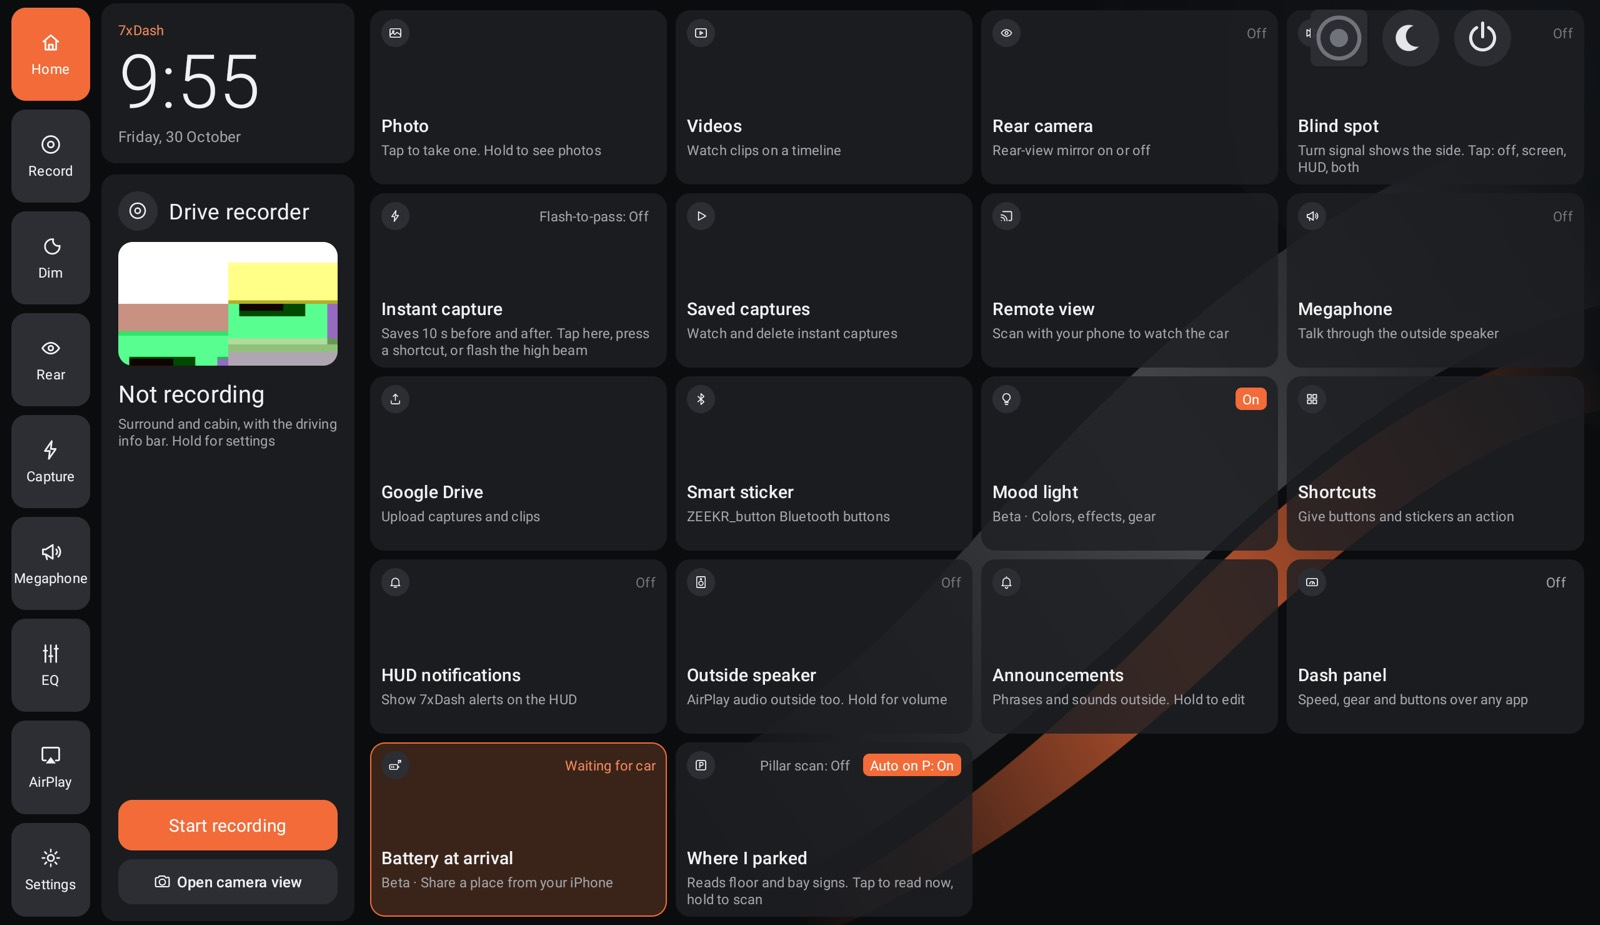
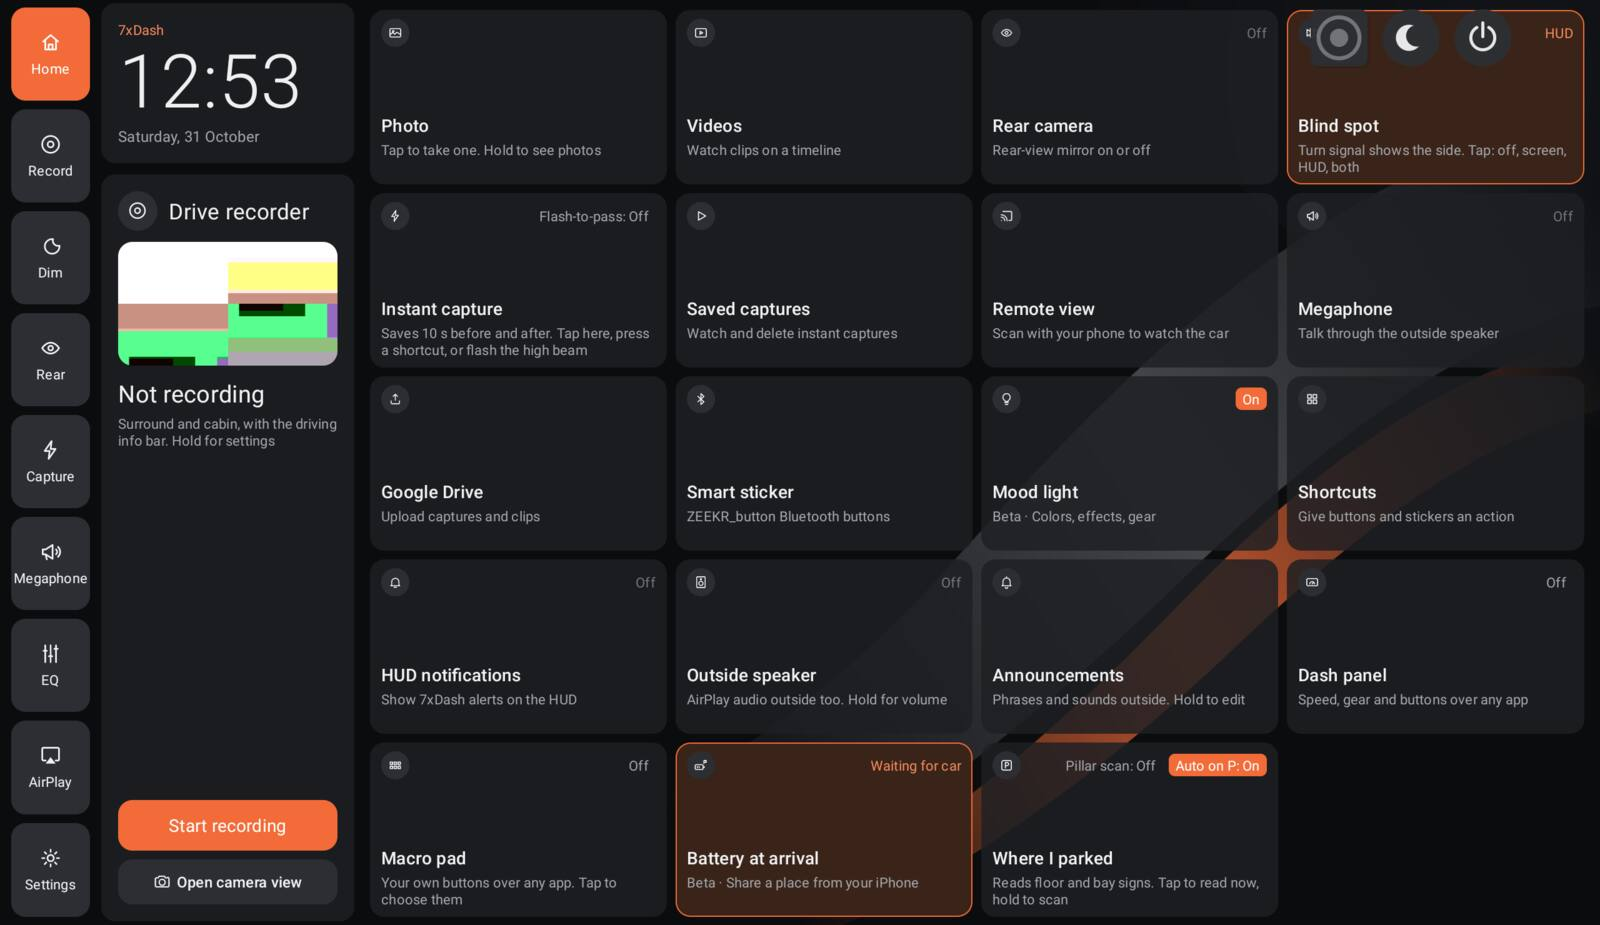
Guide: add the Macro pad, retake Home with its card

diff --git a/docs/index.html b/docs/index.html
@@ -384,6 +384,20 @@ window.FEATURES = [
     options: ["จำขนาดและตำแหน่งไว้ให้", "ถ้าเปิด แบตเมื่อถึงที่หมาย ไว้ บรรทัดบนจะบอกระยะที่เหลือและแบตตอนถึง"],
     notes: ["ต้องอนุญาตให้ 7xDash แสดงทับแอปอื่น ครั้งแรกแอปจะถามเอง"] } },
 
+{ id: "macro", spot: "macro", group: "cards", img: "macro",
+  en: { name: "Macro pad", what: "Your own six buttons, floating over any app.",
+    intro: "A small pad of six buttons that floats over maps, CarPlay or anything else, like the floating buttons. You choose what each button does: record, photo, capture, Super mirror, dim, megaphone, announcements, volume, lights and more.",
+    open: "The switch on the Macro pad card, Settings → Floating button, or the Macro pad on / off shortcut.",
+    steps: ["Tap the switch on the Macro pad card. The pad appears at the bottom right.", "Tap the card itself to set it up: it shows a big copy of the pad.", "Tap a button there and pick its action from the same tabs as Shortcuts, or tap Clear to empty it. The pad changes straight away.", "On the pad: tap a button to run it. Drag to move, pinch to resize, push it to an edge to tuck it away."],
+    options: ["Six buttons, three across and two down. It starts with Recording, Photo, Instant capture, Super mirror, Dim display and Announcements.", "Any action from Shortcuts, including Play an announcement (pick which one) and Dash panel on / off.", "Size and position are remembered."],
+    notes: ["An empty button shows a plus; tapping it on the pad opens the picker for that button.", "The pad can't tell a hold from a tap, so Hold to speak works as tap on, tap off.", "7xDash needs permission to show over other apps. It asks the first time."] },
+  th: { name: "มาโครแพด", what: "ปุ่ม 6 ปุ่มของเราเอง ลอยทับทุกแอป",
+    intro: "แผงปุ่มเล็กๆ 6 ปุ่ม ลอยทับแผนที่ CarPlay หรือแอปอื่นได้ เหมือนปุ่มลอย เลือกเองได้ว่าแต่ละปุ่มทำอะไร เช่น อัดคลิป ถ่ายรูป จับภาพ กระจกมองหลัง หรี่จอ โทรโข่ง ประกาศ เพิ่มเสียง หรือเปิดไฟ",
+    open: "สวิตช์บนการ์ด มาโครแพด, ตั้งค่า → ปุ่มลอย หรือปุ่มลัด เปิด / ปิดมาโครแพด",
+    steps: ["แตะสวิตช์บนการ์ด มาโครแพด แพดจะขึ้นที่มุมขวาล่าง", "แตะตัวการ์ดเพื่อตั้งปุ่ม จะเห็นแพดแบบใหญ่", "แตะปุ่มที่อยากเปลี่ยน แล้วเลือกคำสั่งจากแท็บเดียวกับเมนูปุ่มลัด หรือกด ล้าง เพื่อเว้นว่าง แพดจะเปลี่ยนตามทันที", "บนแพด แตะปุ่มเพื่อสั่งงาน ลากเพื่อย้าย ถ่างนิ้วเพื่อขยาย ดันชิดขอบจอเพื่อเก็บ"],
+    options: ["6 ปุ่ม แถวละ 3 สองแถว เริ่มต้นเป็น อัดคลิป ถ่ายรูป จับภาพทันที กระจกมองหลัง หรี่จอ และประกาศ", "ใช้คำสั่งไหนก็ได้ที่มีในปุ่มลัด รวมถึงเล่นเสียงประกาศที่เลือกไว้ และเปิด/ปิดแผงหน้าปัด", "จำขนาดและตำแหน่งไว้ให้"],
+    notes: ["ปุ่มที่ว่างจะเป็นเครื่องหมายบวก แตะบนแพดเพื่อเลือกคำสั่งให้ปุ่มนั้นได้เลย", "แพดแยกกดค้างกับแตะไม่ได้ ปุ่มกดค้างเพื่อพูดจะกลายเป็นแตะเปิด แตะปิด", "ต้องอนุญาตให้ 7xDash แสดงทับแอปอื่น ครั้งแรกแอปจะถามเอง"] } },
+
 { id: "arrival", spot: "arrival", group: "cards", beta: true, img: "arrival",
   en: { name: "Battery at arrival", what: "Navigating with CarPlay? The Dash panel shows how much battery you'll have when you get there.",
     intro: "CarPlay keeps the route on your phone, so the car can't tell you the battery at arrival. Share the destination from your iPhone and 7xDash works it out from the car's battery and range, then shows it on the Dash panel, e.g. 198 km · 26%.",
@@ -536,7 +550,7 @@ const SPOT = {
   capture: card(1,0), saved: card(1,1), remote: card(1,2), megaphone: card(1,3),
   drive: card(2,0), sticker: card(2,1), mood: card(2,2), shortcuts: card(2,3),
   hud: card(3,0), speaker: card(3,1), announce: card(3,2), dash: card(3,3),
-  arrival: card(4,0), parked: card(4,1),
+  macro: card(4,0), arrival: card(4,1), parked: card(4,2),
   dim: rail("dim"), eq: rail("eq"), airplay: rail("airplay"), settings: rail("settings")
 };
 
@@ -578,7 +592,7 @@ const T = {
     hiddenNote: "Only shown after turning on developer mode.", choices: "Choices", realSettings: "This page in 7xDash",
     settingsWhere: "Settings", open: "How to open it", steps: "How to use it", options: "What you can change", notes: "Good to know",
     prev: "Previous", next: "Next", homeShot: "Where it is on the Home screen", realShot: "The real screen in 7xDash",
-    foot: "7xDash 1.6.12-beta · open source, GPL-3.0 · screenshots from the head unit emulator · if something does not work, Settings → System → Diagnostics makes a report to send."
+    foot: "7xDash 1.7.0 · open source, GPL-3.0 · screenshots from the head unit emulator · if something does not work, Settings → System → Diagnostics makes a report to send."
   },
   th: {
     tag: "สำหรับ ZEEKR 7X", h1: "7xDash ทำอะไรได้บ้าง และใช้ยังไง",
@@ -596,7 +610,7 @@ const T = {
     hiddenNote: "จะเห็นหน้านี้หลังเปิดโหมดนักพัฒนาเท่านั้น", choices: "ตัวเลือก", realSettings: "หน้านี้ใน 7xDash",
     settingsWhere: "การตั้งค่า", open: "เปิดยังไง", steps: "ใช้ยังไง", options: "ปรับอะไรได้บ้าง", notes: "ควรรู้",
     prev: "ก่อนหน้า", next: "ถัดไป", homeShot: "ตำแหน่งบนหน้าหลัก", realShot: "หน้าจอจริงใน 7xDash",
-    foot: "7xDash 1.6.12-beta · โอเพนซอร์ส GPL-3.0 · ภาพหน้าจอจากตัวจำลองจอรถ · ถ้ามีอะไรไม่ทำงาน ไปที่ ตั้งค่า → ระบบ → การวินิจฉัย แล้วส่งรายงานมาได้เลย"
+    foot: "7xDash 1.7.0 · โอเพนซอร์ส GPL-3.0 · ภาพหน้าจอจากตัวจำลองจอรถ · ถ้ามีอะไรไม่ทำงาน ไปที่ ตั้งค่า → ระบบ → การวินิจฉัย แล้วส่งรายงานมาได้เลย"
   }
 };
 
